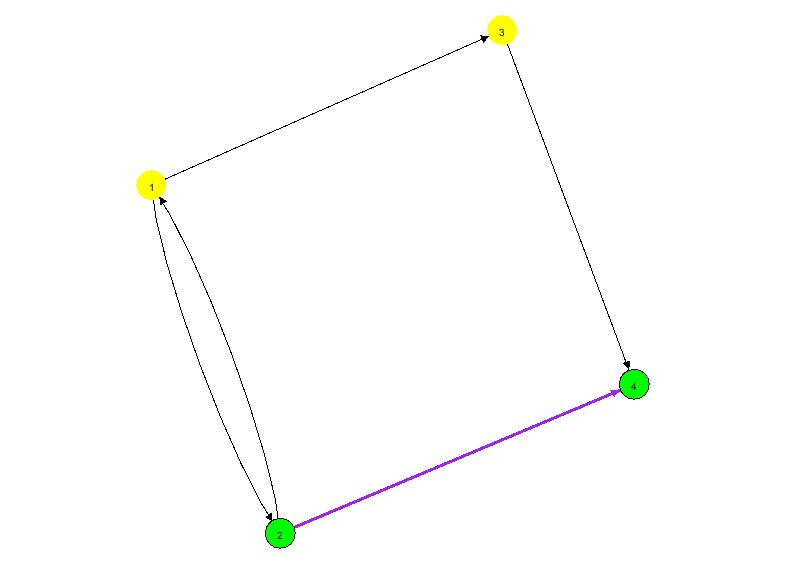
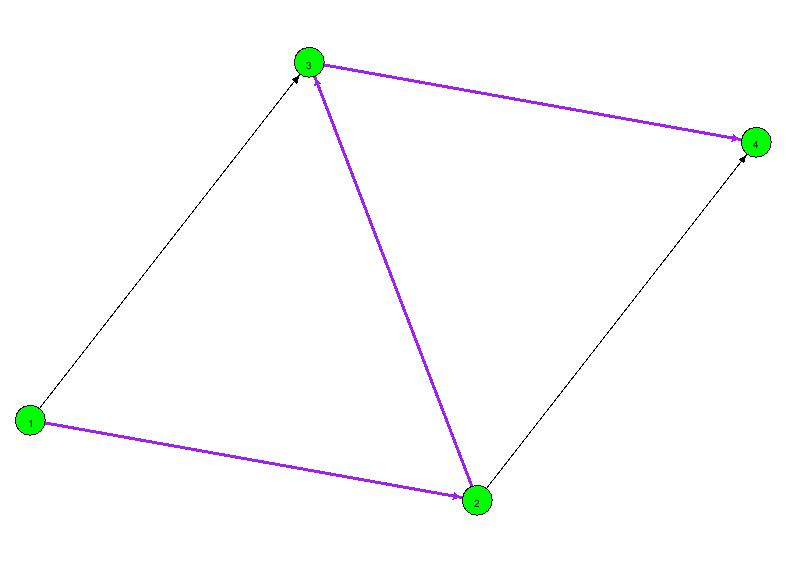
OOP

diff --git a/DFSBegin2End.java b/DFSBegin2End.java
@@ -1,6 +1,10 @@
 package OOProject;
 
 import java.util.*;
+import java.util.concurrent.TimeUnit;
+
+import org.graphstream.graph.Edge;
+import org.graphstream.graph.implementations.SingleGraph;
 
 public class DFSBegin2End extends GraphLinkedList{
 	
@@ -14,10 +18,43 @@ public class DFSBegin2End extends GraphLinkedList{
 	    visited[vertex] = true;
 	    stack.add(vertex);
 	    if (vertex == vertices) {
+	    	
+	    	graph = new SingleGraph("Use");
+	    	graphDraw();
+	    	
 	    	count++;
 	    	for (int i:stack)
 		    	System.out.print(i + " ");
 	    	System.out.println();
+	    	
+	    	for (int i = 0; i < stack.size(); ++i) {
+	    		
+	    		//take the node
+	    		int node_index_temp = stack.get(i);
+	    		
+	    		v[node_index_temp].setAttribute("ui.style", "shape:circle;fill-color: green;size: 30px; stroke-mode: plain;");
+	    		
+	    		if (i == stack.size() - 1)
+	    			continue;
+	    		int node_index_next = stack.get(i + 1);
+	    		String a = Integer.toString(node_index_temp);
+	    		System.err.println(a);
+	    		String b = Integer.toString(node_index_next);
+	    		System.err.println(b);
+	    		Edge edge=graph.getEdge(a + " " + b);
+	    		edge.setAttribute("ui.style", "fill-color: purple; size: 3px;");
+	    	}
+	    	graph.display();
+
+			try {
+				TimeUnit.SECONDS.sleep(1);
+			} catch (InterruptedException e2) {
+				// TODO Auto-generated catch block
+				e2.printStackTrace();
+			}
+			graph.setAttribute("ui.screenshot", "D:\\Projects\\Eclipse Projects\\gs-ui-swing\\src\\OOProject\\Pict\\"
+								+Integer.toString(count)+".jpg");
+	    	
 	    	visited[vertex] = false;
 		    stack.remove(stack.size() - 1);
 	    	return;
@@ -36,6 +73,7 @@ public class DFSBegin2End extends GraphLinkedList{
     	if (count == 0){
     		System.out.println("No path!");
     	}
+    	stack.clear();
     	count = 0;
     }
 

diff --git a/Main.java b/Main.java
@@ -76,14 +76,32 @@ public class Main {
         }
 
         //graph
-        DFSArbitary g = new DFSArbitary(max);
+        /*DFSArbitary g = new DFSArbitary(max);
         for (int i = 0; i < size; i++) {
         	for (int j = 1; j < allIntArr[i].length; j++) {
         		g.addEdge(allIntArr[i][0], allIntArr[i][j]);
         	}
         }
-        g.graphShow();
+        g.graphShow();*/
         
-        g.runDFS(2, 4);
+        //g.runDFS(2, 4);
+        DFSBegin2End g2 = new DFSBegin2End(max);
+        
+        for (int i = 0; i < size; i++) {
+        	for (int j = 1; j < allIntArr[i].length; j++) {
+        		g2.addEdge(allIntArr[i][0], allIntArr[i][j]);
+        	}
+        }
+        g2.graphShow();
+        g2.runDFS();
+        
     }
 }
+
+
+
+
+
+
+
+

diff --git a/GraphLinkedList.java b/GraphLinkedList.java
@@ -38,7 +38,7 @@ public class GraphLinkedList {
 	void addEdge(int src, int dest) {
 		adjLists[src].add(dest);
 	}
-	void graphDraw() {
+	public void graphDraw() {
 		System.setProperty("org.graphstream.ui", "swing");
 		graph = new SingleGraph("Use");
 		for (int i = 1; i <= vertices; ++i) {
